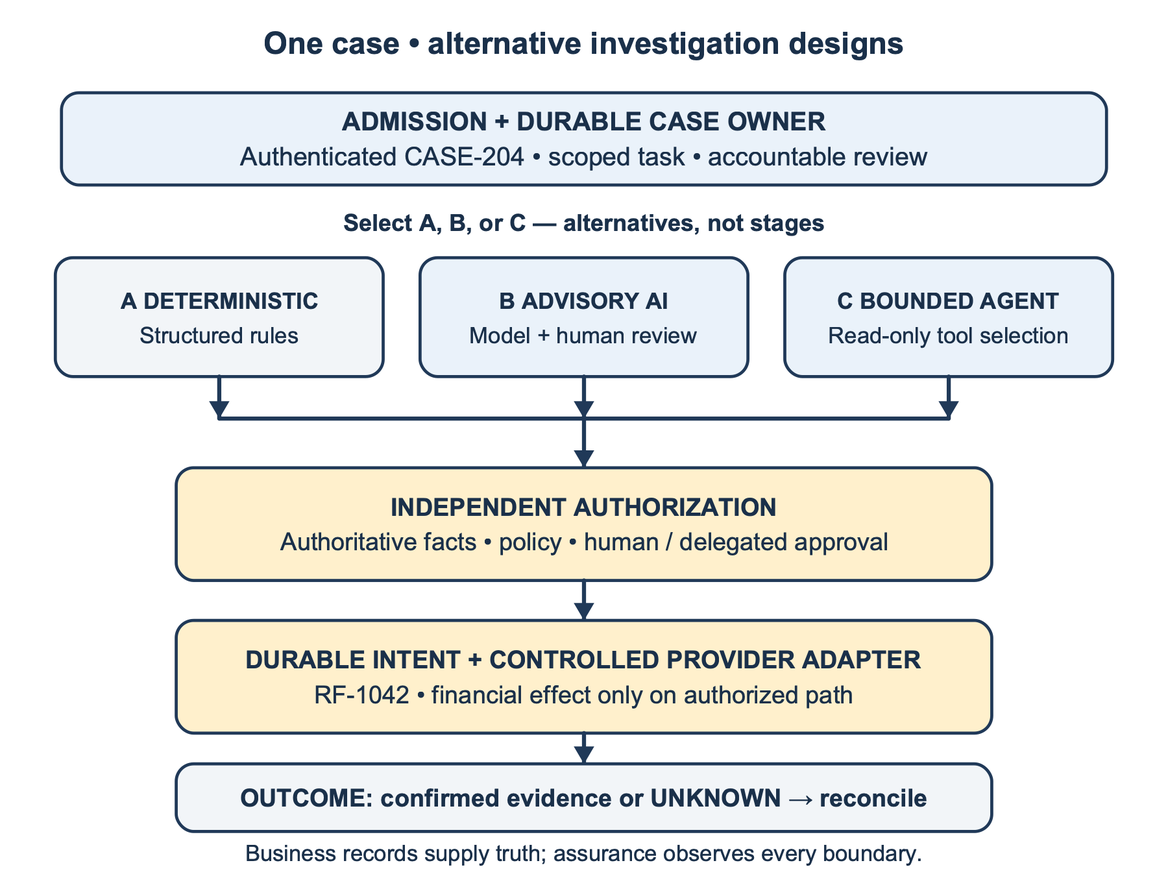
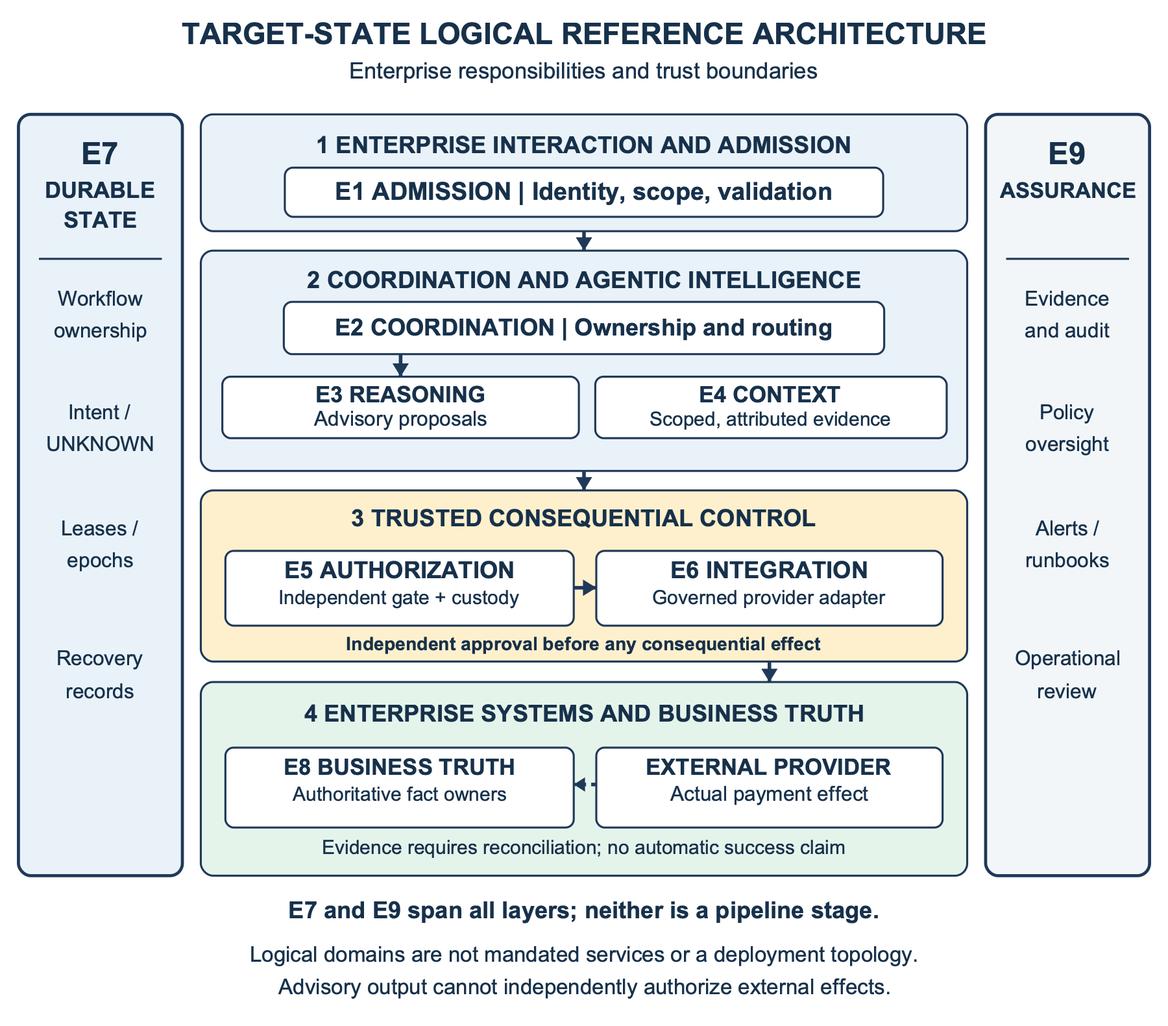
Refine Part II canonical reference architecture and chapter continuity (#14)

diff --git a/publishing/scripts/check_part2_reference_architecture.py b/publishing/scripts/check_part2_reference_architecture.py
@@ -1,0 +1,42 @@
+#!/usr/bin/env python3
+"""Part II reference-architecture editorial and source-to-Word acceptance gates."""
+from pathlib import Path
+import hashlib, re, sys, zipfile, xml.etree.ElementTree as ET
+r=Path(__file__).resolve().parents[2];part=(r/'manuscript/part-02-architecture/_part.md').read_text()
+c8=next((r/'manuscript/part-02-architecture').glob('ch08-*/index.md')).read_text()
+errors=[]
+def need(b,m):
+ if not b: errors.append(m)
+need('target-state logical reference architecture' in part.lower(),'Part II target-state frame absent')
+need(all(str(n) in part for n in range(9,17)),'Part II chapter map incomplete')
+need('neither a prescribed call sequence nor nine required microservices' in part,'Domain misconception not addressed')
+need('CASE-204' in part and 'RF-1042' in part,'Running case absent')
+need(all(f'F08-0{i}.png' in c8 for i in range(1,4)),'Three figures not referenced')
+need([c8.index(f'F08-0{i}.png') for i in range(1,4)] == sorted(c8.index(f'F08-0{i}.png') for i in range(1,4)),'Incorrect figure order')
+for n in (9,10,11,12,14,15):
+ s=next((r/'manuscript/part-02-architecture').glob(f'ch{n:02}-*/index.md')).read_text()
+ need('Figure 8.1' in s,f'Chapter {n} missing architectural trace')
+for n in range(8,16):
+ s=next((r/'manuscript/part-02-architecture').glob(f'ch{n:02}-*/index.md')).read_text()
+ need('CASE-204' in s and 'RF-1042' in s,f'Chapter {n} case continuity')
+ need('Design A' in s and 'Design B' in s and 'Design C' in s,f'Chapter {n} alternatives continuity')
+ need(len(s.split())<=3000,f'Chapter {n} exceeds 3000 words')
+p=r/'assets/shared-figures/sources/F08-01.svg';b=p.read_bytes();need(b'width="5.75in"' in b,'Canonical figure width not print-correct')
+need(all(f'E{i} '.encode() in b for i in range(1,10)),'One or more E1-E9 labels missing in figure')
+need(all(term in b for term in (b'INDEPENDENT', b'EXTERNAL PROVIDER', b'UNKNOWN', b'ASSURANCE', b'BUSINESS TRUTH')) or (b'Independent gate' in b and b'EXTERNAL PROVIDER' in b and b'UNKNOWN' in b),'Key trust/uncertainty boundaries missing')
+need(all(term in b for term in (b'INTERACTION AND ADMISSION', b'COORDINATION AND AGENTIC', b'TRUSTED CONSEQUENTIAL', b'ENTERPRISE SYSTEMS')),'Layered architecture not explicit')
+need(b'not mandated services' in b and b'span all layers' in b,'Layer and cross-cutting semantics missing')
+try:ET.fromstring(b)
+except Exception as e:errors.append(f'Invalid SVG: {e}')
+need(b==(r/'assets/shared-figures/rendered/F08-01.svg').read_bytes(),'SVG master/render mismatch')
+doc=r/'dist/etis-agentic-ai-book.docx'
+need(doc.exists(),'Integrated Word missing')
+if doc.exists():
+ with zipfile.ZipFile(doc) as z:
+  hashes={hashlib.sha256(z.read(n)).hexdigest() for n in z.namelist() if n.startswith('word/media/')}
+ for n in range(1,4):
+  png=r/f'assets/shared-figures/rendered/F08-0{n}.png'
+  need(hashlib.sha256(png.read_bytes()).hexdigest() in hashes,f'F08-0{n} PNG absent from Word')
+print('Part II target-state architecture acceptance:', 'PASS' if not errors else 'FAIL')
+if errors:print('\n'.join(errors));sys.exit(1)
+print('Native Word 7x10 visual and semantic review remain manual gates')

diff --git a/publishing/scripts/check_ch08_acceptance.py b/publishing/scripts/check_ch08_acceptance.py
@@ -19,6 +19,10 @@ require('RF-1042' in part and 'CASE-204' in part,'Part II continuity missing')
 require('R-1042' not in ch2.replace('RF-1042',''),'Chapter 2 operation identifier drift')
 require(all(x in ch for x in ('DATA-01','AUTH-01','POL-02','PAY-03','OPS-01')),'Requirement trace incomplete')
 require(len(ch.split())<=3000,'Chapter 8 source word cap exceeded')
+require('target-state logical reference architecture' in ch.lower(),'Missing target-state architecture roadmap')
+require(ch.count('](assets/shared-figures/rendered/F08-0') == 3,'Chapter 8 must contain exactly three distinct figures')
+require(ch.index('F08-01.png') < ch.index('F08-02.png') < ch.index('F08-03.png'),'Chapter 8 figure reading order incorrect')
+require(all(f'**E{i} ' in ch for i in range(1,10)), 'E1-E9 domains not all defined')
 require(ch.count("The diagram's separation is not cosmetic.")==1,'Duplicate paragraph')
 media=set()
 docx=root/'dist/etis-agentic-ai-book.docx'
@@ -26,7 +30,7 @@ if docx.exists():
  with zipfile.ZipFile(docx) as z:
   media={hashlib.sha256(z.read(n)).hexdigest() for n in z.namelist() if n.startswith('word/media/')}
 else:errors.append('DOCX missing: run make book-docx')
-for name in ('F08-01','F08-02'):
+for name in ('F08-01','F08-02','F08-03'):
  master=root/f'assets/shared-figures/sources/{name}.svg'; render=root/f'assets/shared-figures/rendered/{name}.svg';png=root/f'assets/shared-figures/rendered/{name}.png'
  require(master.exists() and render.exists() and png.exists(),f'{name} master/render missing')
  if not all((master.exists(),render.exists(),png.exists())):continue

diff --git a/manuscript/part-02-architecture/ch08-from-requirements-to-a-reference-architecture/index.md b/manuscript/part-02-architecture/ch08-from-requirements-to-a-reference-architecture/index.md
@@ -22,13 +22,17 @@ A **logical responsibility view** names the functions that must exist and the in
 
 The first view should be understandable without a cloud provider. The second should make failures and untrusted inputs visible. The third should be derived only after considering threat boundaries, scaling, failure domains, latency, recovery, and economics. Drawing nine boxes and deploying nine microservices is not architectural rigor; it is premature implementation commitment.
 
-**Read the architecture from business responsibility to effect, not from agent to tool.** Admission binds the requester and case; the durable workflow owns the investigation and review; one of A, B, or C supplies structured evidence or a recommendation; the governed decision path checks authority; the operation journal and payment adapter control the actual attempt. Authoritative business records support policy checks, and assurance observes the process. Figure 8.1 shows these essential boundaries, not nine sequential services or a mandatory network topology.
+**Target-state roadmap.** The nine responsibility domains are one coherent logical architecture, not a staged installation plan. Figure 8.1 is the canonical Part II layered logical reference architecture: enterprise admission (E1), coordination with bounded advice and context (E2/E3/E4), independent trusted authorization and integration (E5/E6), and external systems with authoritative business truth (E8). Vertical E7 and E9 rails span these layers as durable-state and assurance responsibilities rather than additional processing stages. The diagram distinguishes logical interactions from permitted consequential authority; external payment effects remain outside the reasoning boundary. Section 8.3 defines each domain, Chapters 9–15 develop the contracts, and Chapter 16 examines physical placement without loosening those contracts. The figure is **a proposed architecture to verify**, not proof that a deployment is trusted.
+
+![Figure 8.1 — Canonical layered target-state logical reference architecture. E1 through E9 are logical responsibilities rather than nine services or a call sequence. E7 and E9 span the layers; E5 independently guards E6 and external effects; E8 denotes authoritative business facts, not agent claims.](assets/shared-figures/rendered/F08-01.png){#fig:f08-01 width=5.75in}
+
+**Read the four architectural layers from enterprise admission to externally grounded business truth, not as a required request sequence.** Admission binds the requester and case; the durable workflow owns the investigation and review; one of A, B, or C supplies structured evidence or a recommendation; the governed decision path checks authority; the operation journal and payment adapter control the actual attempt. Authoritative business records support policy checks, and assurance observes the process. Figure 8.1 maps the complete target-state architecture; Figure 8.2 then isolates the alternative investigation and consequential-effect boundaries.
 
 **What is “untrusted” here?** It refers to the *authorization status of the generated information*, not the provenance of every line of the agent runtime. An enterprise may write and secure the agent controller itself. The model may nevertheless misunderstand a message, use stale context, invent a fact, or follow an instruction hidden in retrieved material. Even a correct proposal has no payment privilege. The trusted controller and execution path are conventional, governed software that must independently validate the proposal against authoritative facts. Deterministic code can have bugs, so “trusted” is a *testable control responsibility*, not a claim of infallibility.
 
-Figure 8.1 is a logical responsibility view. It does not give the AI payment credentials, imply that A/B/C execute in sequence, or certify the implementation.
+Figure 8.2 isolates the alternative investigation designs within that responsibility map. It does not give the AI payment credentials, imply that A/B/C execute in sequence, or certify the implementation.
 
-![Figure 8.1 — Alternative investigation designs produce non-authoritative evidence or proposals; independently controlled authorization and durable intent precede any external financial effect.](assets/shared-figures/rendered/F08-01.png){#fig:f08-01 width=5.75in}
+![Figure 8.2 — Alternative investigation designs produce non-authoritative evidence or proposals; independently controlled authorization and durable intent precede any external financial effect.](assets/shared-figures/rendered/F08-02.png){#fig:f08-02 width=5.75in}
 
 The diagram's separation is not cosmetic. A read-only case tool must not hide a write parameter, and a model-selected name must not map to a privileged payment endpoint. **The agent cannot hold the provider payment key or reach an unguarded payment door**; even a valid service credential must not become refund authority. A workflow approval does not replace effect-time authorization. Deployments sharing a process still need credential isolation, protected entry points, and tested bypass denials. Chapter 13 makes those controls concrete.
 
@@ -51,7 +55,7 @@ The approved reference architecture groups responsibilities into nine enterprise
 | **E8 — Business truth** | Maintain authoritative business facts and case status | Distinguish claims from confirmed records |
 | **E9 — Assurance and operations** | Audit, monitor, contain, and recover | Evidence, alerts, runbooks, accountable owners |
 
-These domains must not be confused with a pipeline of nine successive model calls. E7 and E9 are cross-cutting responsibilities; E4 supplies evidence but cannot authorize effects; E8 holds business truth but does not turn a generated statement into truth. E5 remains the trusted action boundary even when implemented alongside another domain. Chapter 9 begins the detailed contract sequence at admission; Chapters 10–15 develop the remaining domains; Chapter 16 maps logical boundaries to deployment.
+These domains must not be confused with a pipeline of nine successive model calls. E7 and E9 are cross-cutting responsibilities; E4 supplies evidence but cannot authorize effects; E8 holds business truth but does not turn a generated statement into truth. E5 remains the trusted action boundary even when implemented alongside another domain. In Figure 8.1 the architecture is read as relationships among responsibilities, not as a linear chain. Chapter 9 begins the detailed contract sequence at admission; Chapters 10–15 develop the remaining domains; Chapter 16 maps logical boundaries to deployment.
 
 A sound decomposition allocates each requirement to an **enforcer**, an **observer**, and an **acceptance oracle**. For `AUTH-01`, E3's missing credential and absent payment-capable tool surface are structural enforcers; E5 and the gateway reject unauthorized calls; E9 records denials; negative tests verify these properties. Merely putting “no refunds” in the system prompt is not an enforcer.
 
@@ -79,9 +83,9 @@ For `CASE-204`, Design B's advisory model might propose a $500 refund with refer
 
 The proposal may say that a $500 refund appears appropriate. A reviewer or separately authorized policy workflow may reject it, request more evidence, or authorize it under current rules. Only then may the trusted service record a durable operation intent and use the payment adapter. Neither the agent nor its retrieval tools should possess the capability to initiate that operation.
 
-Figure 8.2 follows the consequential path **after an authorized reviewer or policy decision**, including the case that is easy to omit from a happy-path architecture: a provider acknowledgment can be lost after the provider has performed the effect. The local payment-operation state is then `UNKNOWN`, not `FAILED`; the broader case may remain `OUTCOME_UNKNOWN`. Reconciliation uses the same illustrative identity `RF-1042` and provider-supported correlation or status mechanisms. If the provider cannot establish the outcome, the workflow escalates to an accountable operator. No new operation is inferred to be safe merely because the first call timed out.
+Figure 8.3 follows the consequential path **after an authorized reviewer or policy decision**, including the case that is easy to omit from a happy-path architecture: a provider acknowledgment can be lost after the provider has performed the effect. The local payment-operation state is then `UNKNOWN`, not `FAILED`; the broader case may remain `OUTCOME_UNKNOWN`. Reconciliation uses the same illustrative identity `RF-1042` and provider-supported correlation or status mechanisms. If the provider cannot establish the outcome, the workflow escalates to an accountable operator. No new operation is inferred to be safe merely because the first call timed out.
 
-![Figure 8.2 — Distinct proposal, authorization, and payment-effect paths; lost acknowledgment enters UNKNOWN and requires reconciliation or escalation, not blind resubmission.](assets/shared-figures/rendered/F08-02.png){#fig:f08-02 width=5.75in}
+![Figure 8.3 — Distinct proposal, authorization, and payment-effect paths; lost acknowledgment enters UNKNOWN and requires reconciliation or escalation, not blind resubmission.](assets/shared-figures/rendered/F08-03.png){#fig:f08-03 width=5.75in}
 
 An architecture review should ask who can bypass the gate, what credentials are reachable from the reasoning runtime, where the durable record is written relative to provider dispatch, and how the operator determines the next safe action after a crash. These questions apply even when a model is not used; the agentic component increases the range of proposals, not the permitted range of financial effects.
 
@@ -99,7 +103,7 @@ Architecture evidence and runtime evidence are not interchangeable. The figures 
 
 **Architecture review verdict for the continuing case.** The design is acceptable as a *candidate logical decomposition*, not as an authorized production system. The minimum release-blocking tests include cross-tenant read denial; model-to-payment route denial; changed or revoked approval denial; stable-operation duplicate suppression under the documented provider contract; lost-acknowledgment reconciliation; and operator containment. If the provider cannot support authoritative status resolution, the system must preserve a human-owned unresolved state rather than claim completion.
 
-The next eight chapters make this map operational: admission (9), coordination (10), proposals (11), context (12), authorization (13), integration and business truth (14), state and assurance (15), and deployment boundaries (16). The later pattern, build, verification, and governance parts will use the same case and invariants rather than introducing a more permissive agent by stealth.
+The next eight chapters decompose the target-state logical architecture in Figure 8.1: admission (9), coordination (10), proposals (11), context (12), authorization (13), integration and business truth (14), state and assurance (15), and deployment boundaries (16). The later pattern, build, verification, and governance parts will use the same case and invariants rather than introducing a more permissive agent by stealth.
 
 ## Chapter exercises
 

diff --git a/manuscript/part-02-architecture/ch15-durable-operational-state-and-assurance-e7-e9/index.md b/manuscript/part-02-architecture/ch15-durable-operational-state-and-assurance-e7-e9/index.md
@@ -10,7 +10,7 @@ After this chapter, readers should be able to (1) separate durable workflow stat
 
 ## 15.1 What persists when a process disappears?
 
-Chapter 10 established one **logical workflow owner** for a case and a replaceable physical coordinator. Chapter 13 established independent authorization, protected credentials, and the trusted financial operation. Chapter 14 separated an integration attempt from the effect established by authoritative external records. This chapter completes that chain with **durable operational state (E7)**—the authoritative, persistently stored account of what the *workflow* knows and what it is permitted to do next—and **operational assurance (E9)**, the controls and evidence that let operators verify and govern its behavior. E7 is not the payment provider's ledger, and E9 does not substitute a reassuring dashboard for evidence.
+Figure 8.1 places E7 and E9 across the target-state architecture rather than at the end of a pipeline. Chapter 10 established one **logical workflow owner** for a case and a replaceable physical coordinator. Chapter 13 established independent authorization, protected credentials, and the trusted financial operation. Chapter 14 separated an integration attempt from the effect established by authoritative external records. This chapter completes that chain with **durable operational state (E7)**—the authoritative, persistently stored account of what the *workflow* knows and what it is permitted to do next—and **operational assurance (E9)**, the controls and evidence that let operators verify and govern its behavior. E7 is not the payment provider's ledger, and E9 does not substitute a reassuring dashboard for evidence.
 
 For `CASE-204`, the customer reports that a replacement did not arrive and requests a **$500 refund**. **Design A** is the deterministic baseline. **Design B** remains the conditional production candidate: bounded AI evidence synthesis followed by independent review and trusted execution. **Design C** is a separately evaluated, **read-only** investigator. The trusted path may create `RF-1042` only after authorization; no reasoning agent, recovered worker, or coordinator promotes itself into a payment authority. Recovery never invents `RF-1043` to replace an uncertain `RF-1042`.
 

diff --git a/manuscript/part-02-architecture/ch09-admission-identity-and-scoped-work-e1/index.md b/manuscript/part-02-architecture/ch09-admission-identity-and-scoped-work-e1/index.md
@@ -10,7 +10,7 @@ After this chapter, readers should be able to (1) separate authentication, case 
 
 ## 9.1 Admission is the first enforceable enterprise boundary
 
-Chapter 8 derived nine logical responsibilities from Chapter 7's requirements. E1—**admission and identity**—is the entry point for work, but not the place where a refund becomes authorized. The input may be a customer's message, a case worker's request, or an authenticated enterprise event. Before an agent investigates, the enterprise must establish **who is requesting work, for which tenant and case, under whose delegated authority, for what purpose, and within what constraints**. Otherwise a system can correctly process the wrong customer's records.
+Figure 8.1 presents the complete target-state logical architecture; this chapter engineers its E1 admission boundary. Chapter 8 derived nine logical responsibilities from Chapter 7's requirements. E1—**admission and identity**—is the entry point for work, but not the place where a refund becomes authorized. The input may be a customer's message, a case worker's request, or an authenticated enterprise event. Before an agent investigates, the enterprise must establish **who is requesting work, for which tenant and case, under whose delegated authority, for what purpose, and within what constraints**. Otherwise a system can correctly process the wrong customer's records.
 
 The running example is unchanged. In `CASE-204`, a customer reports that a replacement shipment never arrived and asks for a **$500 refund**. Design A remains the deterministic comparison baseline; Design B is the *conditional initial production candidate* with model-assisted advice and independent review; Design C is an evaluated **read-only investigative agent**. All three require admission. None gives its reasoning component payment credentials. `RF-1042` remains the illustrative payment-operation identifier, created only on a separately authorized consequential path. At this point in the workflow, **no refund operation has been authorized or dispatched**.
 

diff --git a/manuscript/part-02-architecture/ch14-enterprise-integration-and-business-truth-e6-e8/index.md b/manuscript/part-02-architecture/ch14-enterprise-integration-and-business-truth-e6-e8/index.md
@@ -10,7 +10,7 @@ After this chapter, readers should be able to (1) separate authorization, integr
 
 ## 14.1 From permission to external consequence
 
-Chapter 13 established **trusted execution and authority (E5)**: independent authorization, protected payment credentials, durable intent, and the stable refund-operation identity `RF-1042`. The customer in `CASE-204` reports that a replacement never arrived and requests a **$500 refund**. **Design A** remains the deterministic baseline; **Design B** is the conditional production candidate with AI advice and independent review; **Design C** is a bounded, **read-only** investigative alternative, not an approved payment actor. None changes the route to an external financial effect.
+Figure 8.1 distinguishes the governed E6 adapter from E8 authoritative business facts and external payment effects. Chapter 13 established **trusted execution and authority (E5)**: independent authorization, protected payment credentials, durable intent, and the stable refund-operation identity `RF-1042`. The customer in `CASE-204` reports that a replacement never arrived and requests a **$500 refund**. **Design A** remains the deterministic baseline; **Design B** is the conditional production candidate with AI advice and independent review; **Design C** is a bounded, **read-only** investigative alternative, not an approved payment actor. None changes the route to an external financial effect.
 
 **Enterprise integration (E6)** is the governed software interface that maps a permitted operation onto external provider protocols. **Authoritative business systems (E8)** are systems assigned the right to establish particular customer, order, payment, and refund facts. E8 is a *logical responsibility*, not one universal database; the actual payment provider may be the authority for the payment effect while an order system owns fulfillment facts. **Durable operational state (E7)** records locally known intentions and observations; it cannot turn a missing provider acknowledgment into a completed refund.
 

diff --git a/manuscript/part-02-architecture/ch10-coordination-registry-and-ownership-e2/index.md b/manuscript/part-02-architecture/ch10-coordination-registry-and-ownership-e2/index.md
@@ -10,7 +10,7 @@ After this chapter, readers should be able to (1) distinguish logical workflow o
 
 ## 10.1 From admitted work to accountable progress
 
-Chapter 9 established the authenticated, purpose-limited admission envelope for `CASE-204`. The customer reports a missing replacement and requests a **$500 refund**. Admission and identity (E1) establishes the tenant, principal, case binding, permitted investigation, and expiration. Yet admission does not answer a different question: **who is responsible for moving the case forward when several services, workers, or people participate, and who resumes it after a failure?** That is the work of coordination and ownership (E2).
+The target-state map in Figure 8.1 locates E2 as accountable coordination, not payment authority. Chapter 9 established the authenticated, purpose-limited admission envelope for `CASE-204`. The customer reports a missing replacement and requests a **$500 refund**. Admission and identity (E1) establishes the tenant, principal, case binding, permitted investigation, and expiration. Yet admission does not answer a different question: **who is responsible for moving the case forward when several services, workers, or people participate, and who resumes it after a failure?** That is the work of coordination and ownership (E2).
 
 The earlier architectural choice still holds. **Design A** is the deterministic baseline. **Design B**, model-assisted evidence synthesis with independent review, is the *conditional initial production candidate*. **Design C** is a separately evaluated, read-only investigation agent; its dynamic read choices do not give it payment authority. In every design, the workflow must retain accountable ownership, preserved evidence, valid scope, and an explicit completion or escalation state. `RF-1042` is the illustrative stable financial-operation identifier used **only after independent authorization**. E2 neither invents that authorization nor issues payment through an agent.
 

diff --git a/manuscript/part-02-architecture/ch11-agent-reasoning-and-proposal-contracts-e3/index.md b/manuscript/part-02-architecture/ch11-agent-reasoning-and-proposal-contracts-e3/index.md
@@ -10,7 +10,7 @@ After this chapter, readers should be able to (1) distinguish a reasoning mechan
 
 ## 11.1 From owned work to an inspectable recommendation
 
-Chapter 9 admitted `CASE-204` under authenticated identity and restricted purpose. Chapter 10 gave that admitted work a durable logical owner and a replaceable coordinator. The next question is deliberately narrower: **what may the reasoning component return, and what proof is needed before anyone relies on it?** That is the architectural responsibility of **agent reasoning and proposals (E3)**. Its output is information for the governed workflow, not a command that can independently change payment state.
+In Chapter 8's canonical Figure 8.1, E3 is advisory and has no consequential execution route. Chapter 9 admitted `CASE-204` under authenticated identity and restricted purpose. Chapter 10 gave that admitted work a durable logical owner and a replaceable coordinator. The next question is deliberately narrower: **what may the reasoning component return, and what proof is needed before anyone relies on it?** That is the architectural responsibility of **agent reasoning and proposals (E3)**. Its output is information for the governed workflow, not a command that can independently change payment state.
 
 Our running case has not changed. A customer says that a replacement never arrived and requests a **$500 refund**. **Design A** is the deterministic baseline; **Design B** remains the conditional first production candidate, with model-assisted evidence synthesis and independent review. **Design C** remains a separately evaluated, read-only investigator that can choose among approved evidence-gathering steps. `RF-1042` is the example's stable *financial operation* identity, created only in the trusted consequential path after valid authorization; it is **not** a reasoning-run ID and must never be minted by the investigator.
 

diff --git a/manuscript/part-02-architecture/ch12-context-retrieval-and-memory-e4/index.md b/manuscript/part-02-architecture/ch12-context-retrieval-and-memory-e4/index.md
@@ -10,7 +10,7 @@ After this chapter, readers should be able to (1) distinguish source records, re
 
 ## 12.1 From the proposal contract to defensible evidence
 
-Chapter 9 established who may submit `CASE-204` and what resources are in scope. Chapter 10 assigned durable ownership of the admitted investigation. Chapter 11 described the typed recommendation that agent reasoning and proposals (E3) may return. We now examine the evidence on which that recommendation depends: **context and retrieval (E4)**. A structured proposal with perfect field names is still wrong if it cites another customer's order, a superseded policy, or a generated summary that conceals a contrary fact.
+Figure 8.1 locates E4 as scoped evidence for E3, not as an independent business authority. Chapter 9 established who may submit `CASE-204` and what resources are in scope. Chapter 10 assigned durable ownership of the admitted investigation. Chapter 11 described the typed recommendation that agent reasoning and proposals (E3) may return. We now examine the evidence on which that recommendation depends: **context and retrieval (E4)**. A structured proposal with perfect field names is still wrong if it cites another customer's order, a superseded policy, or a generated summary that conceals a contrary fact.
 
 The running case remains one customer reporting that a replacement never arrived and requesting a **$500 refund**. **Design A** is a deterministic rules-and-workflow baseline. **Design B** remains the conditional initial production candidate: model-assisted evidence interpretation with independent review. **Design C** remains a separately evaluated, read-only agent that chooses among approved investigation steps. The financial operation `RF-1042` belongs to a later, separately authorized execution path, not to the retrieval system or its memory.
 

diff --git a/manuscript/part-02-architecture/_part.md b/manuscript/part-02-architecture/_part.md
@@ -17,6 +17,10 @@ The architecture must also account for incomplete knowledge. When a payment prov
 5. Separate logical architecture from deployment topology, defending a simpler deployment when it preserves the necessary enforcement boundaries.
 6. Produce a reviewable architecture package: responsibility ownership, contractual invariants, threat boundaries, failure paths, tests, and unresolved design assumptions.
 
+## The target-state architecture and its progressive decomposition
+
+Part I defined the obligations and acceptance evidence; Part II now develops a **target-state logical reference architecture**: a vendor-neutral arrangement of responsibilities, contracts, and enforceable authority boundaries against which implementations can be evaluated. *Target-state* describes the intended logical design, not an approved production deployment or a claim that the architecture has passed its tests. Chapter 8 establishes the integrated architecture and introduces its nine responsibility domains, E1–E9, in Figure 8.1 and Section 8.3. Chapters 9–15 then progressively engineer those domains and their interfaces; Chapter 16 examines deployment realizations of the same boundaries. The domains are neither a prescribed call sequence nor nine required microservices. E7 (durable operational state) and E9 (assurance and operations) span the system. Every chapter returns to the same `CASE-204` and `RF-1042` contracts, allowing readers to trace an obligation from its architectural location to a testable implementation mechanism.
+
 ## The nine-chapter learning path
 
 | Chapter | Design question | Engineering result |
